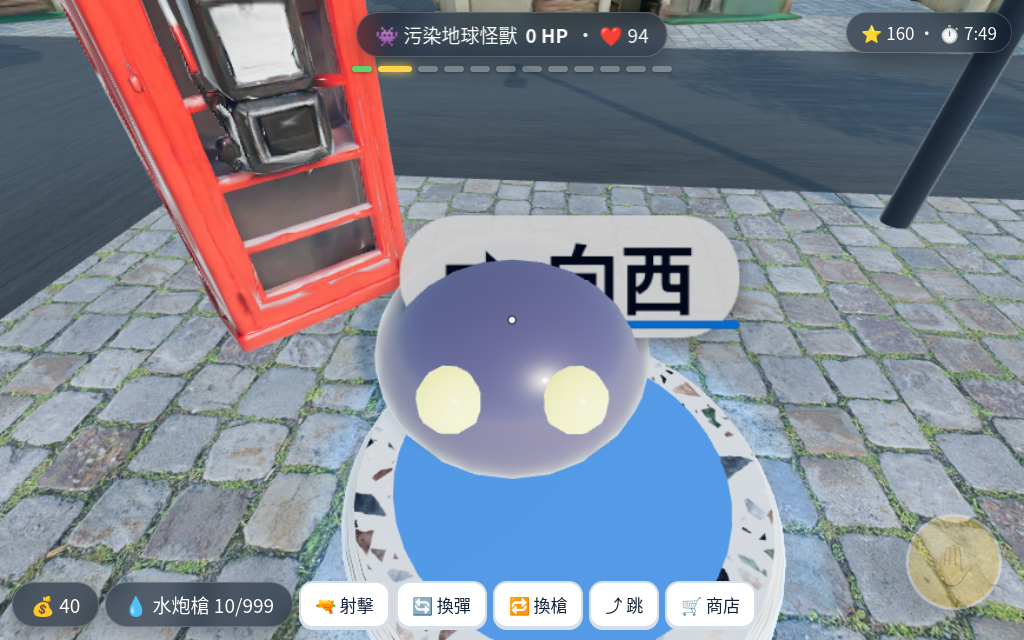
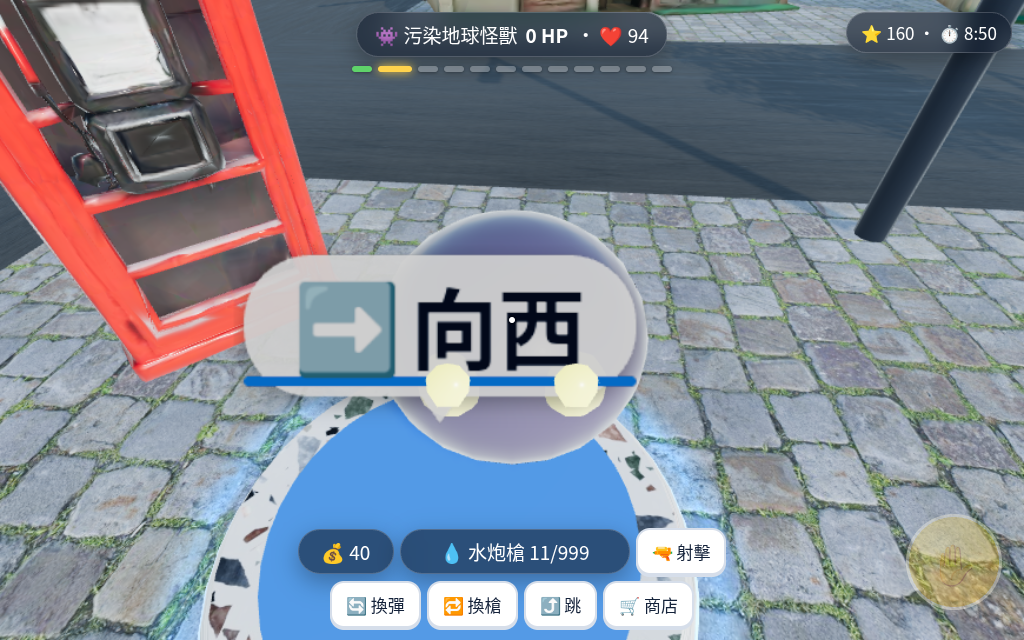
v3 polish: iPad weapon HUD stays clear of mission board, hold-to-fire, ammo UI refresh
Verified with tests/ipad3.mjs (land + portrait): tap fire drains ammo, reload/swap/jump work, no bar overlap.

diff --git a/js/game.js b/js/game.js
@@ -206,7 +206,7 @@ function joyPos(cx, cy) {
 }
 addEventListener('touchstart', (e) => {
   for (const t of e.changedTouches) {
-    if (t.target.closest?.('.board,#act,.ov')) continue;
+    if (t.target.closest?.('.board,#act,.ov,#weap,#shopOv')) continue;
     if (t.clientX < innerWidth * 0.45) { joy.active = t.identifier; joyPos(t.clientX, t.clientY); }
     else if (!boardModal && !t.target.closest?.('.board')) lookDrag = { id: t.identifier, x: t.clientX, y: t.clientY };
   }
@@ -321,13 +321,13 @@ function refreshProgress() {
 }
 
 function hideBoard() {
-  boardOpen = false; boardModal = false;
+  boardOpen = false; boardModal = false; document.body.classList.remove('boardup');
   const h = $('boardHost');
   h.classList.remove('show', 'modal');
   h.innerHTML = '';
 }
 function showBoard(html, modal = false) {
-  boardOpen = true; boardModal = !!modal;
+  boardOpen = true; boardModal = !!modal; document.body.classList.add('boardup');
   const h = $('boardHost');
   h.classList.add('show');
   h.classList.toggle('modal', !!modal);
@@ -1078,13 +1078,24 @@ const GUNS = {
 const inv = { water: { mag: 12, res: 999 } }; let gun = 'water';
 const ui = document.createElement('div'); ui.id = 'weap'; ui.style.cssText = 'position:fixed;left:50%;transform:translateX(-50%);bottom:12px;max-width:calc(100vw - 340px);justify-content:center;z-index:6;pointer-events:auto;font-size:16px;display:flex;gap:6px;flex-wrap:wrap;align-items:center';
 document.body.appendChild(ui);
+let uiMode = null;
 function updWeap() {
-  const g = GUNS[gun], v = inv[gun];
-  ui.innerHTML = `<span class="pill" style="position:static;transform:none" data-testid="money">💰 ${money}</span>`
-    + (bossOn || slimes.length ? `<span class="pill" style="position:static;transform:none" data-testid="ammo">${g.name} ${v.mag}/${v.res}</span><button class="choice" data-testid="fire" id="fireBtn">🔫 射擊</button><button class="choice" data-testid="reload" id="rlBtn">🔄 換彈</button><button class="choice" data-testid="swap" id="swBtn">🔁 換槍</button><button class="choice" data-testid="jump" id="jpBtn">⤴ 跳</button>` : '')
-    + `<button class="choice" data-testid="shop" id="shopBtn">🛒 商店</button>`;
-  ui.querySelector('#shopBtn').onclick = openShop;
-  if (bossOn || slimes.length) { ui.querySelector('#fireBtn').onpointerdown = () => fire(); ui.querySelector('#rlBtn').onclick = reload; ui.querySelector('#swBtn').onclick = swap; ui.querySelector('#jpBtn').onclick = jump; ui.querySelector('#fireBtn').onpointerup = () => {}; }
+  const g = GUNS[gun], v = inv[gun]; const mode = bossOn || slimes.length ? 'fight' : 'calm';
+  if (mode !== uiMode) {
+    uiMode = mode;
+    ui.innerHTML = `<span class="pill" data-testid="money" id="moneyP" style="position:static;transform:none;width:96px;justify-content:center"></span>`
+      + (mode === 'fight' ? `<span class="pill" style="position:static;transform:none;width:230px;justify-content:center;font-variant-numeric:tabular-nums" data-testid="ammo" id="ammoP"></span><button class="choice" data-testid="fire" id="fireBtn">🔫 射擊</button><button class="choice" data-testid="reload" id="rlBtn">🔄 換彈</button><button class="choice" data-testid="swap" id="swBtn">🔁 換槍</button><button class="choice" data-testid="jump" id="jpBtn">⤴ 跳</button>` : '')
+      + `<button class="choice" data-testid="shop" id="shopBtn">🛒 商店</button>`;
+    ui.querySelector('#shopBtn').onclick = openShop;
+    if (mode === 'fight') {
+      const fb = ui.querySelector('#fireBtn');
+      fb.addEventListener('pointerdown', (e) => { e.preventDefault(); mouseFire = true; fire(); });
+      for (const ev of ['pointerup', 'pointerleave', 'pointercancel']) fb.addEventListener(ev, () => { mouseFire = false; });
+      ui.querySelector('#rlBtn').onclick = reload; ui.querySelector('#swBtn').onclick = swap; ui.querySelector('#jpBtn').onclick = jump;
+    }
+  }
+  ui.querySelector('#moneyP').textContent = `💰 ${money}`;
+  const ap = ui.querySelector('#ammoP'); if (ap) ap.textContent = `${g.name} ${v.mag}/${v.res}${reloadT > 0 ? ' 🔄' : ''}`;
 }
 function openShop() {
   let ov = document.getElementById('shopOv'); if (!ov) { ov = document.createElement('div'); ov.id = 'shopOv'; ov.style.cssText = 'position:fixed;inset:0;z-index:30;display:flex;align-items:center;justify-content:center;background:rgba(5,12,24,.55)'; document.body.appendChild(ov); }
@@ -1195,7 +1206,7 @@ function hurt(n) {
   if (pHp <= 0 && bossOn) { bossOn = false; const b = showBoard(`<h2>😵 被污染擊倒</h2><p class="tip">去商店補彈或買新武器，再挑戰！</p><button class="go" data-testid="retry" id="retry">🔁 重試 Boss</button>`, true); b.querySelector('#retry').onclick = () => { inv.water.mag = 12; startBoss(); }; }
 }
 function winBoss() { bossOn = false; bossWon = true; worldRoot.remove(boss); boss = null; money += 200; score += 500; toast('🏆', 1500); setTimeout(endGame, 1200); }
-window.__BOSS = { get slimes() { return slimes.map((q) => ({ x: q.g.position.x, z: q.g.position.z, hp: q.hp })); }, get boss() { return boss ? { x: boss.position.x, z: boss.position.z, phase: bossPhase } : null; }, start: startBoss, give(n) { money += n; updWeap(); }, get s() { return { bossOn, bossHp, pHp, money, gun, jumpH, shots: window.__shots || 0, hits: window.__hits || 0, blocked: window.__blocked || 0, inv: JSON.parse(JSON.stringify(inv)) }; } };
+window.__BOSS = { get slimes() { return slimes.map((q) => ({ x: q.g.position.x, z: q.g.position.z, hp: q.hp })); }, get boss() { return boss ? { x: boss.position.x, z: boss.position.z, phase: bossPhase } : null; }, start: startBoss, give(n) { money += n; updWeap(); }, get s() { return { shopOpen, fireCd: +fireCd.toFixed(2), reloadT, bossOn, bossHp, pHp, money, gun, jumpH, shots: window.__shots || 0, hits: window.__hits || 0, blocked: window.__blocked || 0, inv: JSON.parse(JSON.stringify(inv)) }; } };
 updWeap();
 
 // ---- interaction ----

diff --git a/css/style.css b/css/style.css
@@ -88,3 +88,5 @@ body.playing #hud{opacity:1}
   #joy{bottom:calc(34vh + 26px)}
   .pill small{display:none}
 }
+
+body.boardup #weap{bottom:auto!important;top:max(110px,calc(env(safe-area-inset-top) + 100px));left:max(12px,env(safe-area-inset-left))!important;transform:none!important;max-width:60vw!important;justify-content:flex-start!important}
